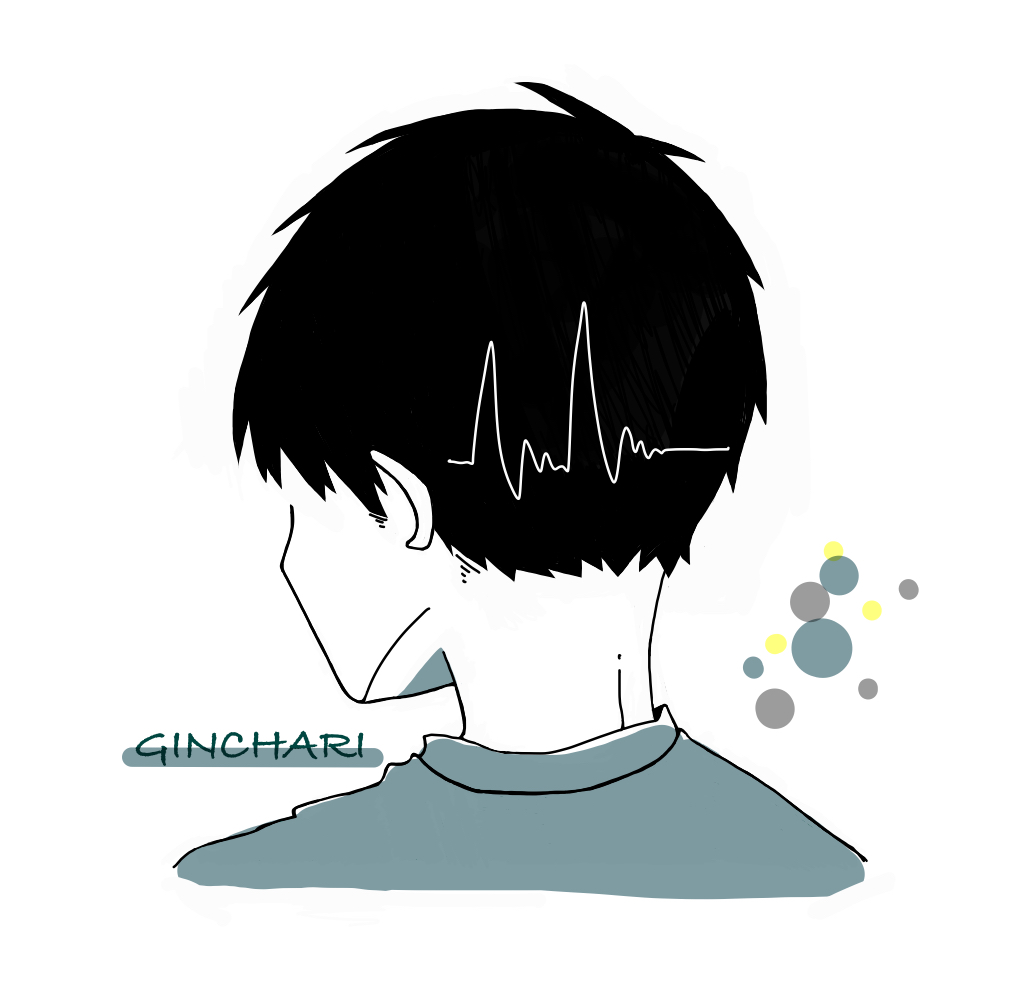
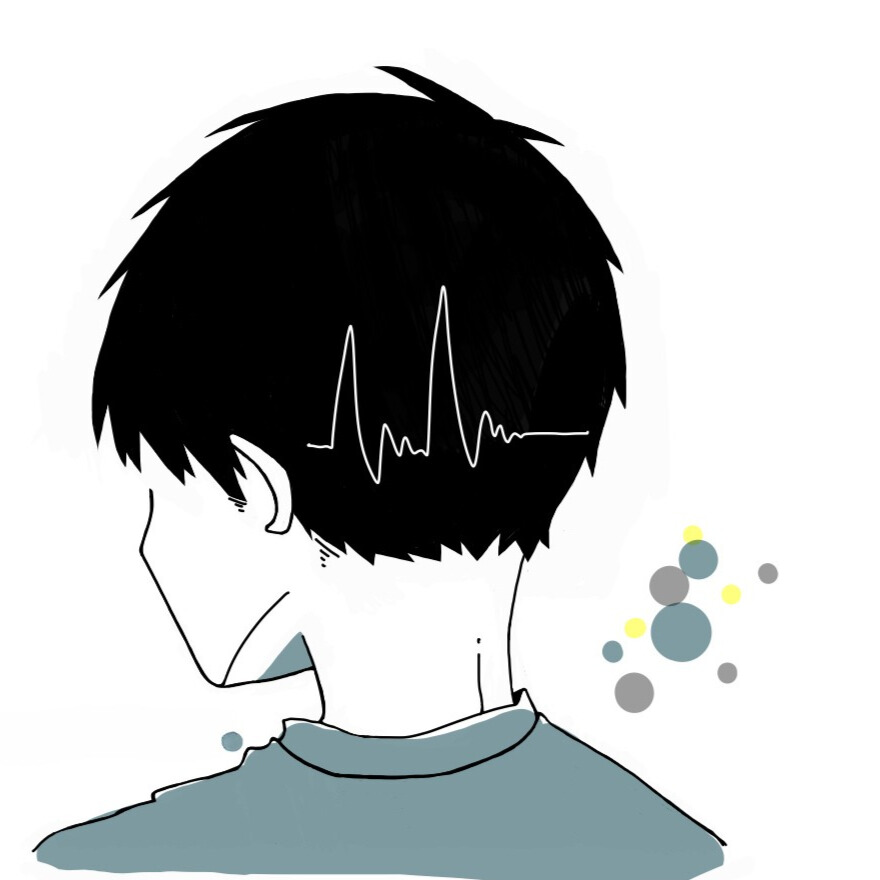
add profile.jpg

Changed region(s): [[0.0307, 0.0614, 0.9205, 1.0]]

diff --git a/public/index.html b/public/index.html
@@ -89,7 +89,7 @@
           width="144"
           height="144"
           alt="Author"
-          src="/profile_hub4076432a9bd62034697fb6bf5e4d30a_165329_288x288_fill_q75_box_smart1.jpg"
+          src="/profile_hu5134ed5478d748144417a35db7cc35d3_70448_288x288_fill_q75_box_smart1.jpg"
         />
       
       <h1 class="text-4xl font-extrabold dark:text-white">
